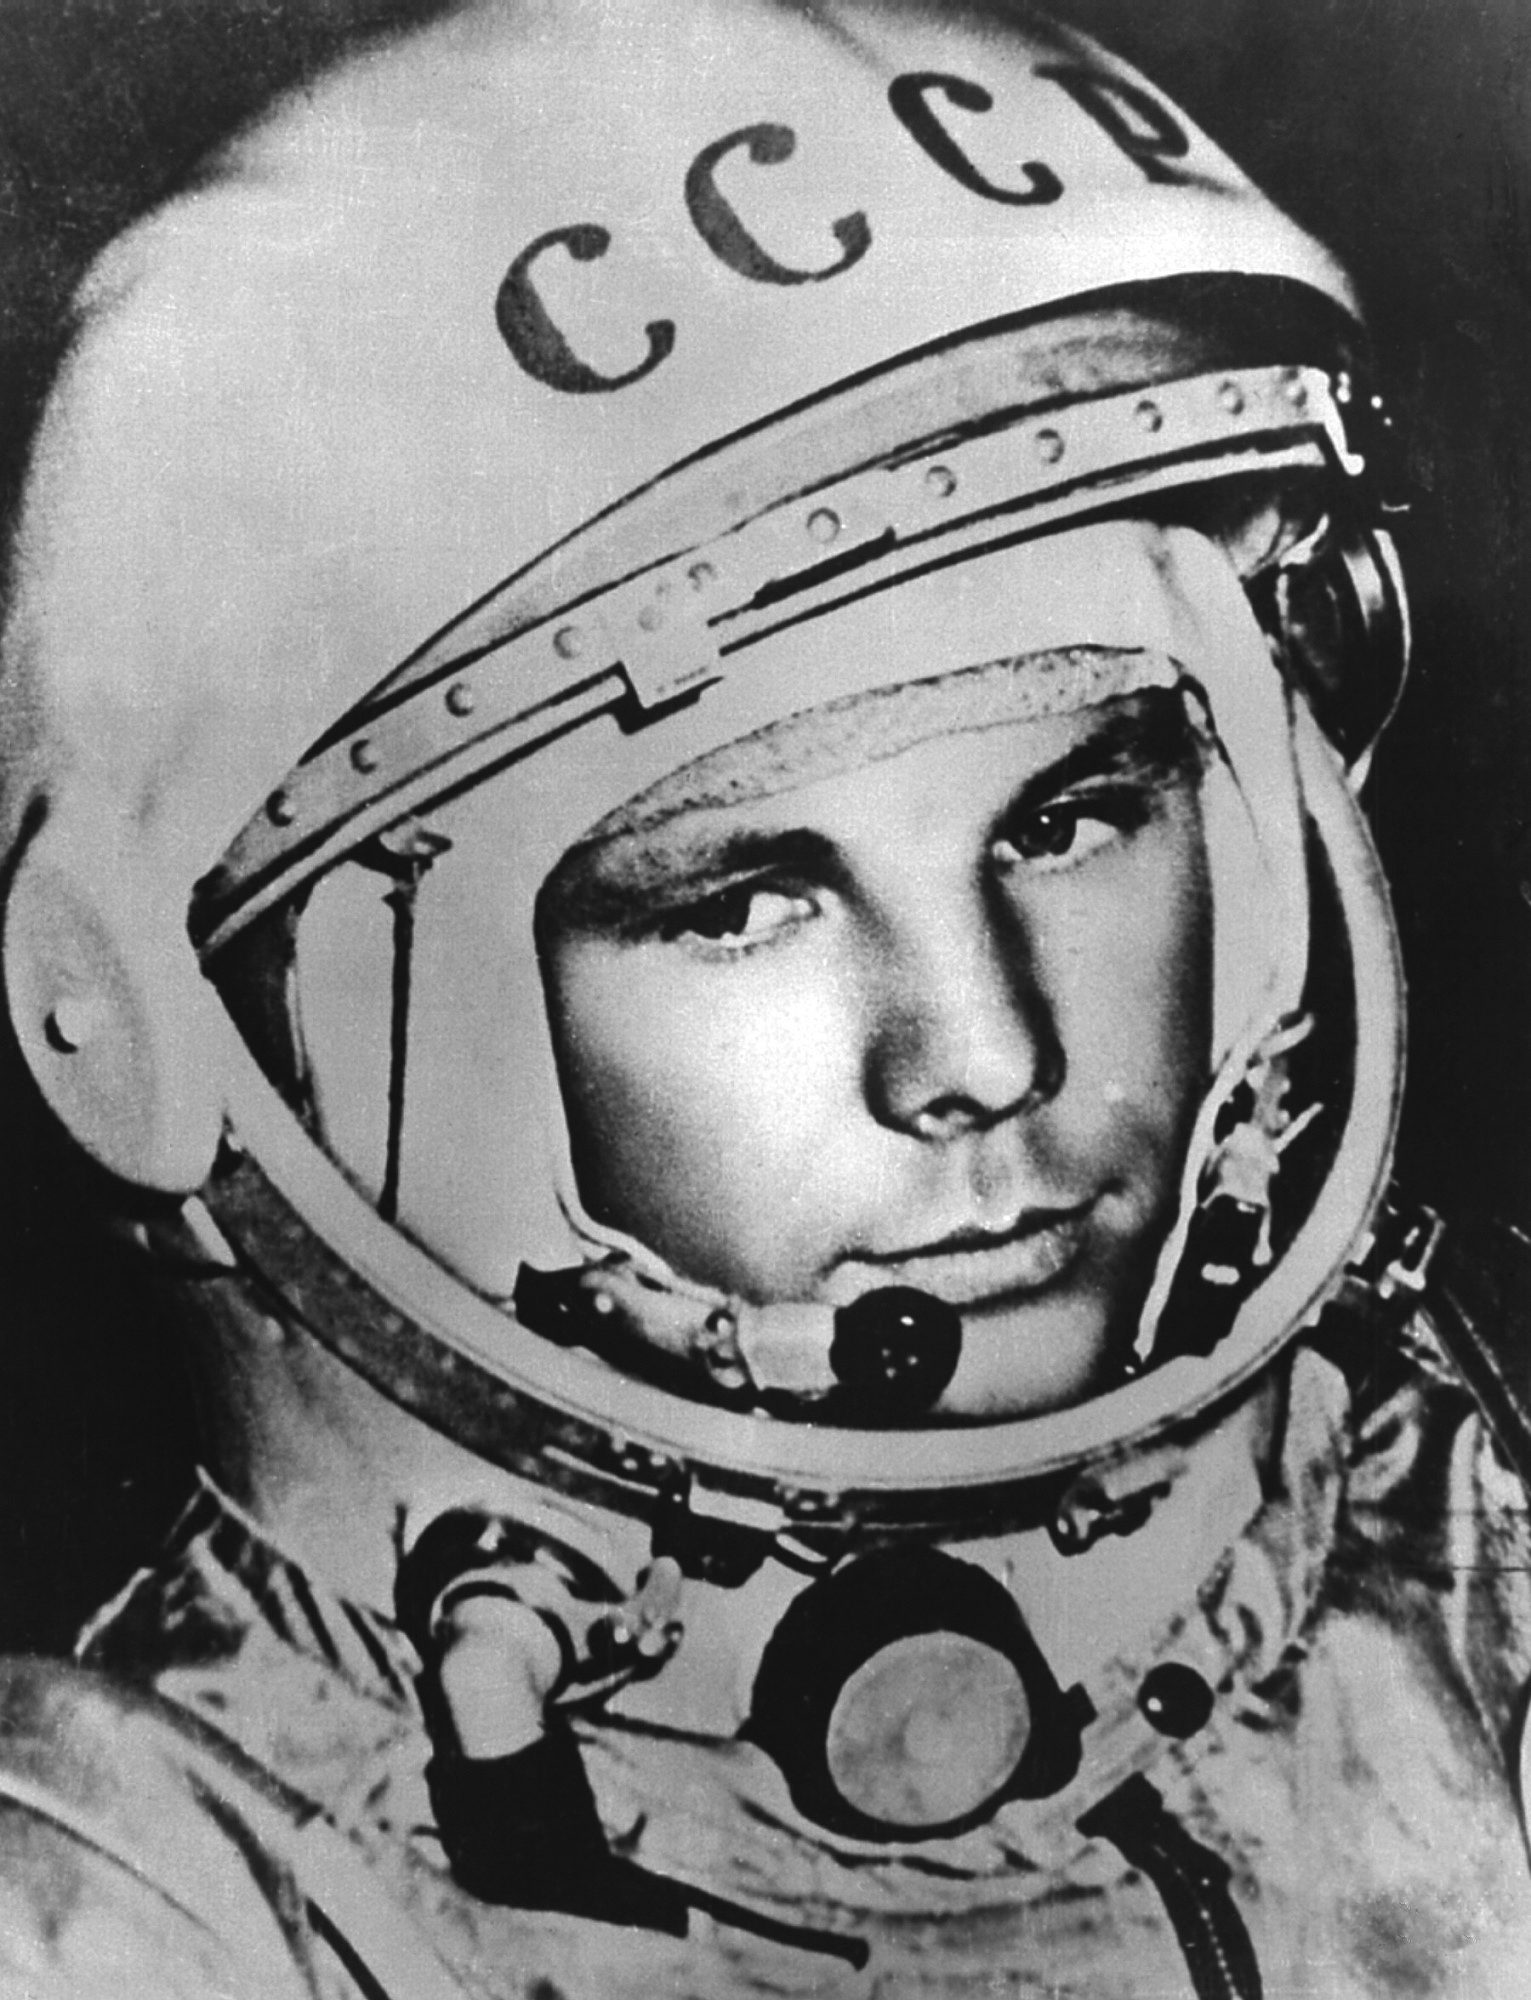
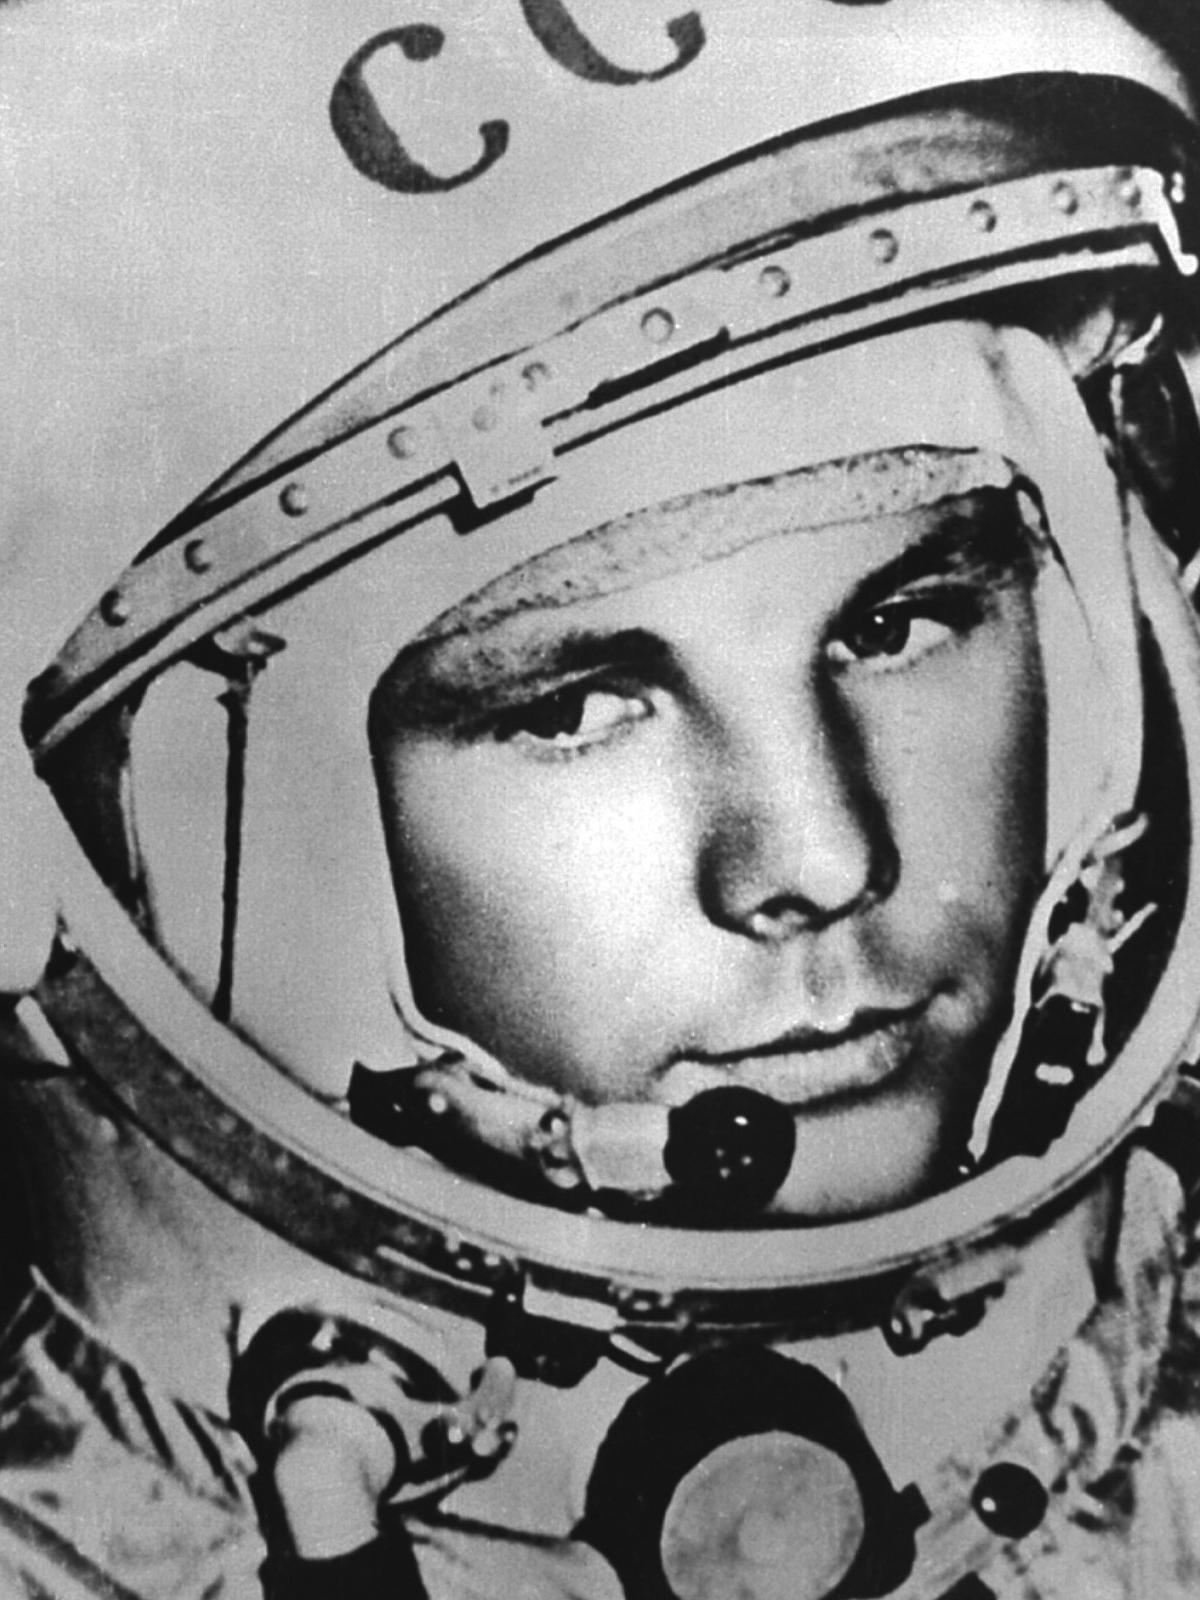
fix: image size

diff --git a/src/components/common/CommonImage.jsx b/src/components/common/CommonImage.jsx
@@ -3,15 +3,13 @@ import { useGSAP } from '@gsap/react';
 import { useRef } from 'react';
 
 /* eslint-disable react/prop-types */
-const CommonImage = ({ src, width, height }) => {
+const CommonImage = ({ src, width, height, classes }) => {
   const imageRef = useRef(null);
   useGSAP(() => {
     if (!imageRef.current) return;
+    gsap.set(imageRef.current, { x: '-50%', y: '0%', opacity: 0 });
     gsap
       .timeline({
-        x: '10%',
-        y: '0%',
-        opacity: 0.7,
         scrollTrigger: {
           trigger: imageRef.current,
           start: 'top 80%',
@@ -19,6 +17,7 @@ const CommonImage = ({ src, width, height }) => {
           scrub: true,
         },
       })
+      // .set({ x: '-50%', y: '0%', opacity: 0 })
       .to(imageRef.current, {
         x: '100%',
         y: '10%',
@@ -29,7 +28,15 @@ const CommonImage = ({ src, width, height }) => {
         ease: 'power1.inOut',
       });
   }, []);
-  return <img ref={imageRef} src={src} width={width} height={height} />;
+  return (
+    <img
+      ref={imageRef}
+      src={src}
+      width={width}
+      height={height}
+      className={classes}
+    />
+  );
 };
 
 export default CommonImage;

diff --git a/src/components/Section3_1/Section3_1.jsx b/src/components/Section3_1/Section3_1.jsx
@@ -15,7 +15,12 @@ const Section3_1 = () => {
           title='Yuri Gagarin'
           text='On April 12, 1961, Yuri Gagarin, a Soviet cosmonaut, made history by becoming the first human to journey into outer space. His mission aboard Vostok 1 was a major milestone in the space race. Vostok 1 lifted off from the Baikonur Cosmodrome. Gagarin&#39;s historic flight lasted 108 minutes, completing one orbit around Earth.As Vostok 1 launched, Gagarin famously exclaimed, "Poyekhali!" (Let&#39;s go!). These words became iconic, symbolizing the beginning of human space exploration.'
         />
-        <CommonImage width='200px' height='200px' src='./assets/Gagarin.jpg' />
+        <CommonImage
+          width='180px'
+          height='240px'
+          src='./assets/Gagarin.jpg'
+          classes='rounded-lg'
+        />
       </section>
     </>
   );

diff --git a/src/components/Section3_2/Section3_2.jsx b/src/components/Section3_2/Section3_2.jsx
@@ -1,4 +1,3 @@
-import Heading from '../common/Heading';
 import SubHeadings from '../common/SubHeadings';
 import InfoBox from '../common/InfoBox';
 import CommonImage from '../common/CommonImage';
@@ -8,7 +7,6 @@ const Section3_2 = () => {
     <>
       <section className='panel relative w-full h-full flex flex-col items-start justify-evenly pt-5'>
         <div>
-          <Heading title='Pioneers of Space' />
           <SubHeadings title='Valentina Tereshkova: The First Woman in Space' />
         </div>
         <InfoBox
@@ -17,8 +15,9 @@ const Section3_2 = () => {
         />
 
         <CommonImage
-          width='150px'
-          height='150px'
+          width='180px'
+          height='240px'
+          classes='rounded-lg'
           src='./assets/Valentina.jpg'
         />
       </section>
